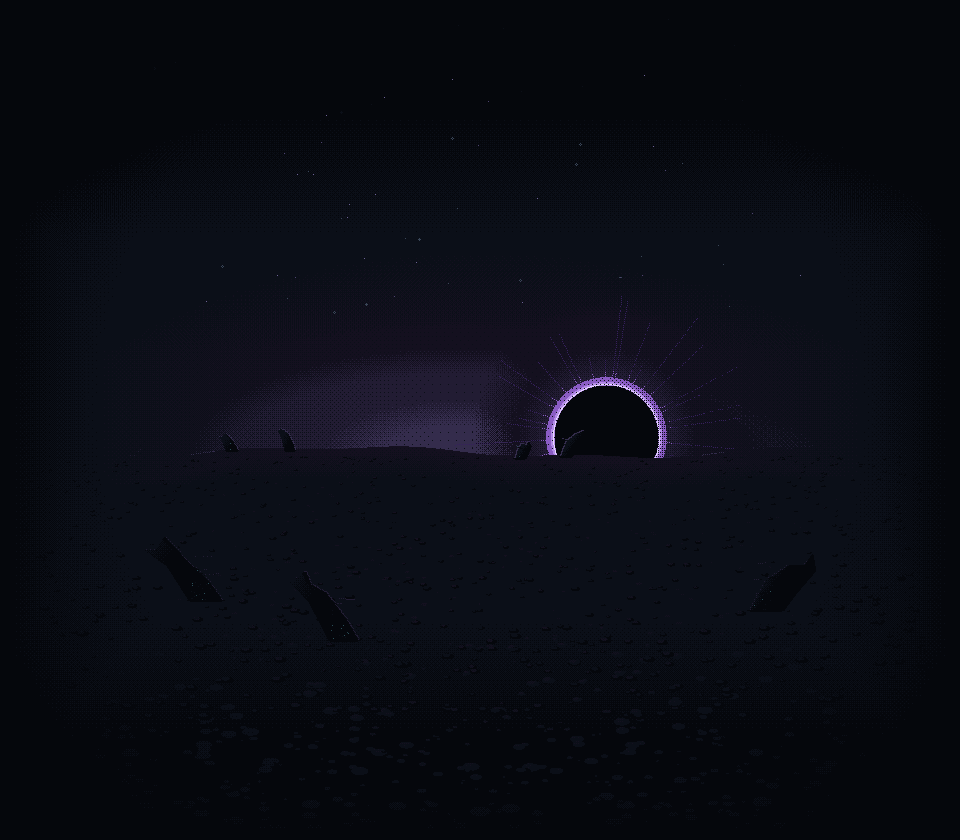
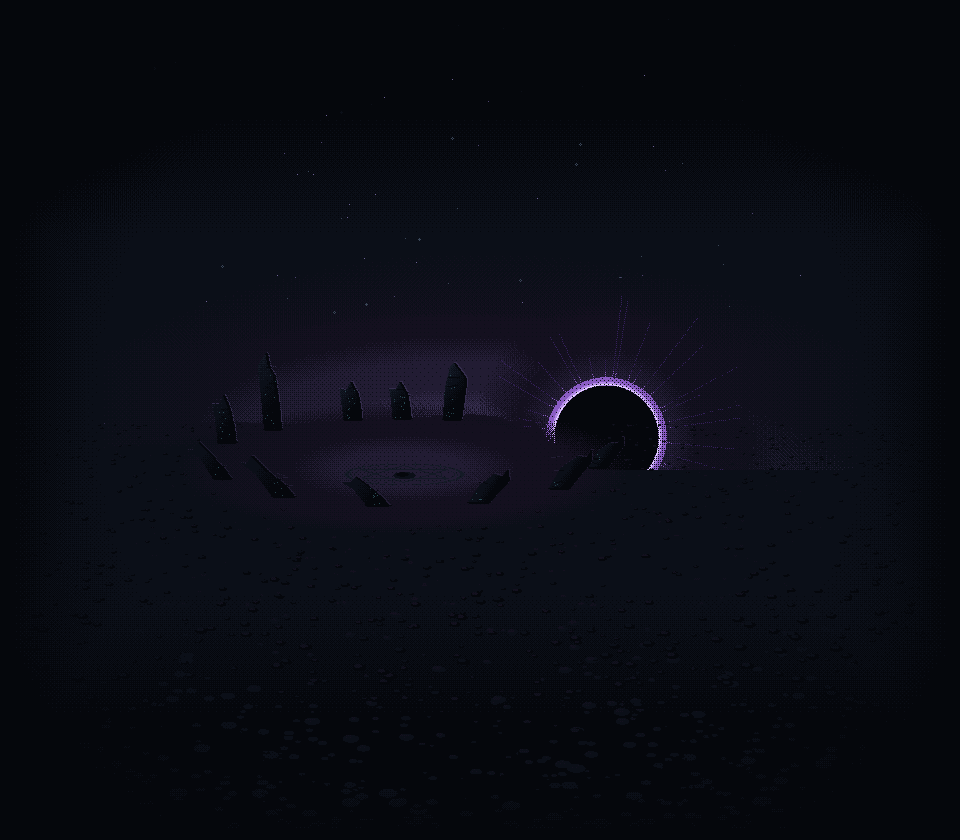
Prologue panel 2: lifted out of the stone circle, in their own dark colours
Eric's third pass on "He came here first": "when the dark wizard lifts
the wizards into the air, they should still be at the stone circles. you
can also show the colored dark silhouettes when he lifts them."

The setting: the four stand in the moot's ring of standing stones round
its cold ward, not on a bare far crest. The near stones are thrown down
outward; the far ones stand a head taller than the four and lean
outward, placed to the left of them and in the gaps between their heads
(THRONE_FAR_STONES), because a stone straight behind one ran on out of
his outline like a tall hat. The land beyond falls away behind him, so
his sun is not cut to a dome and its corona still rings his head. He
stays large in the right foreground, back to us, hand raised.

The colour: standing, they stay cast in shadow with only their own
light in colour; as each one's hoop closes his own colour comes up on
him, dark and shaded (THRONE_LIFTED): a dark stop of his robe's row,
the red row two stops higher for an even brightness, a band one stop up
on the side toward the hand, the far side let back to occlusion, the
violet rim kept - half his pixels for 0.12 s, then all. roster_figure
takes its shade= pass back for this.

Everything else as the second pass: four lifts one at a time, the
reach, the hoops, their light into his orb, 5.9 s, 46 unique frames.
Only throne-anim and throne-back change; 0 off-contract pixels; the
other seven panels byte-identical; panels 1 and 4 untouched.

diff --git a/tools/art/prologue.py b/tools/art/prologue.py
@@ -441,7 +441,7 @@ def _mask_at(pixels, k, facing):
 
 
 def roster_figure(c, who, cx, yb, h, body, strip="idle", frame=0, facing=1, lit=True, dim=False,
-                  warm=None, toward=None, contact=True):
+                  warm=None, toward=None, contact=True, shade=None):
     """One of the game's wizards as a silhouette, his feet on (cx, yb), h tall if he stood upright.
 
     who: a ROSTER entry. strip/frame: which of his frames - idle to stand, moving to walk, the death's
@@ -449,6 +449,7 @@ def roster_figure(c, who, cx, yb, h, body, strip="idle", frame=0, facing=1, lit=
     own ramp; dim: it is out, a dull stone where it was. warm: a ramp to dither a little of onto him
     (the fire in the moot). toward: (dx, dy[, colour]) to rim the edges facing a light. contact: False
     for a figure off the ground (the throne's lifted four), which has no contact line under him.
+    shade(s, left, top): a pass over his own pixels, on his scratch layer, before he is laid down.
     Returns (light, front): where his light is, and the front of him at his waist (where a chain
     would hold him), in frame pixels; either may be None."""
     prefix, carried, burns = who
@@ -473,6 +474,8 @@ def roster_figure(c, who, cx, yb, h, body, strip="idle", frame=0, facing=1, lit=
                     s.set(x, y, warm[4])
     left = int(round(cx - (CELL / 2.0) * k)) - 2
     top = int(round(yb - (CELL - 1) * k)) - 2
+    if shade:
+        shade(s, left, top)
     # The contact line: what of him touches the ground, on the ground row, in occlusion.
     feet = [x for x in range(s.w) for y in range(max(0, s.h - 4 - int(k)), s.h) if s.px[x, y][3]]
     over(c, s, left, top)
@@ -1532,15 +1535,19 @@ def p_moot():
 # the foreground. remove the purple wizard, since he is the wizard that you are, and you do not get captures by him".
 #
 # So FOUR: the starters the Archmage frees in the break, in the break's order left to right (FREED_FOUR) - never Dee,
-# whose grey robe and violet light read as the player. They stand on the far side of the moot's circle, on the crest
-# where its ground meets the sky, CAST IN SHADOW against the glow of his sun: occlusion shapes told apart by their
-# outlines - the Pyromancer's lantern and cape, the Geomancer's bulk and fork, the Frostweaver's crown and trident, the
-# Stormcaller's hair and raised fork - and each with nothing on him in colour but his own light. HE is in the
-# FOREGROUND, the nearest thing to the camera, between us and them, with his back to us. A silhouette has no front, so
-# the picture says it: the black sun is beyond him, behind his head, the only light on him comes from there, and his
-# raised hand reaches up into the scene, toward them. Then he takes them one at a time, from the far one to the
-# nearest: his reach leaves his hand, a hoop of his violet closes on one and lifts it into the sky over the circle,
-# where it hangs in a glow of his light while its own light streams back across the sky into his hand.
+# whose grey robe and violet light read as the player. And his third pass: "when the dark wizard lifts the wizards into
+# the air, they should still be at the stone circles. you can also show the colored dark silhouettes when he lifts
+# them." So they stand IN THE MOOT'S RING, round its cold ward, the ring's far stones standing tall behind them and
+# leaning outward, its near ones thrown down flat toward us - the place of panel 1, seen from behind him. Standing,
+# they are CAST IN SHADOW against the glow of his sun: occlusion shapes told apart by their outlines - the
+# Pyromancer's lantern and cape, the Geomancer's bulk and fork, the Frostweaver's crown and trident, the Stormcaller's
+# hair and raised fork - with nothing on them in colour but their own lights. HE is in the FOREGROUND, the nearest
+# thing to the camera, between us and them, with his back to us. A silhouette has no front, so the picture says it:
+# the black sun is beyond him, behind his head, the only light on him comes from there, and his raised hand reaches up
+# into the scene, toward them. Then he takes them one at a time, from the far one to the nearest: his reach leaves
+# his hand, a hoop of his violet closes on one - and in that light his own colour comes up on him, dark and shaded,
+# the moot's red, green, blue or gold (THRONE_LIFTED) - and lifts him out of the ring into the sky over it, where he
+# hangs in a glow of the dark wizard's light while his own light streams back into the hand.
 #
 # The box is the break's: every frame is the whole mid layer inside it, and the still mid layer is empty there. Every
 # edge and size a multiple of 8, so the dissolve's Bayer threshold matches pixel for pixel.
@@ -1556,22 +1563,31 @@ THRONE_COLUMNS = 8
 # the moot's panel gave it against him (eleven of his 64ths), so its corona rings his collar of points.
 THRONE_HIM = (604, 700, 300)
 THRONE_SUN = (606, 437, 52)
-# The crest of the far side of the circle, where the four stand against the sky: its height at x.
+# The moot's ring in the middle distance, beyond him and to our left: its centre and radii. Its stones stand round
+# this ellipse, the cold ward lies in its middle, and the four stand inside it.
+THRONE_RING = (404, 462, 196, 44)
+THRONE_WARD = (404, 474, 60, 11)
+# Where the ring's far stones stand, by x on its far arc: two to the left of the four, three in the gaps between
+# them, none behind his head, where a stone would break the eclipse.
+THRONE_FAR_STONES = [228, 274, 353, 403, 453]
 
-
-def _throne_crest(x):
-    return 452 + math.sin(x * 0.012 + 0.6) * 5 + math.sin(x * 0.037 + 2.0) * 2
-
-
-# The four, in the order he takes them, far to near: (who, standing on the crest at x, held in the air (x, yb),
-# height, facing, the moment the hoop closes). Facing him, each a step apart so no two outlines touch and merge.
-# The first hoop closes at 1.25 s, so the circle stands whole and still for a beat after the dissolve in (his reach,
-# THRONE_REACH, leaves his hand 0.15 s before it); then one every 0.65 s. The last comes to rest at 4.8 s, and
-# the dissolve to the tide begins at 5.2.
-THRONE_FOUR = [(PYRO, 328, (332, 372), 48, 1, 1.25),
-               (GEO, 378, (376, 336), 48, 1, 1.9),
-               (FROST, 428, (428, 326), 48, 1, 2.55),
-               (STORM, 478, (478, 350), 48, 1, 3.2)]
+# The four, in the order he takes them, far to near: (who, standing in the ring (x, yb), held in the air (x, yb),
+# height, facing, the moment the hoop closes). Facing him, on the ward's far side, each a step apart so no two
+# outlines touch and merge. The first hoop closes at 1.25 s, so the circle stands whole and still for a beat after
+# the dissolve in (his reach, THRONE_REACH, leaves his hand 0.15 s before it); then one every 0.65 s. The last comes
+# to rest at 4.8 s, and the dissolve to the tide begins at 5.2.
+THRONE_FOUR = [(PYRO, (328, 456), (332, 372), 48, 1, 1.25),
+               (GEO, (378, 452), (376, 336), 48, 1, 1.9),
+               (FROST, (428, 452), (428, 326), 48, 1, 2.55),
+               (STORM, (478, 456), (478, 350), 48, 1, 3.2)]
+# Each one's colour once his hoop has him: (the row, the stop he is filled with, the stop his lit side takes). Dark and
+# shaded, as Eric asked ("the colored dark silhouettes"), not the moot's flat fill: a stop of his own row whose
+# brightness is near the other three's (the red row is the darkest, so the Pyromancer sits two stops above the
+# rest), his lit side one stop up toward the hand, his far side let back to occlusion.
+THRONE_LIFTED = {"pyromancer": (R, 2, 1), "geomancer": (M["verdant"], 4, 3), "frostweaver": (M["azure"], 4, 3),
+                 "stormcaller": (G, 4, 3)}
+# Seconds his colour takes to come up once the hoop has closed: half of him at once, all of him after this.
+THRONE_COLOUR_IN = 0.12
 # The hoop closing: seconds from its flash on the ground to his feet leaving it.
 THRONE_GRIP = 0.3
 # A lift eases in and out (a smoothstep, steepest at 1.5 times its average) and never climbs faster than this,
@@ -1583,9 +1599,44 @@ THRONE_STREAM = 1.5
 
 
 def _throne_ground(entry):
-    """Where a wizard stands before he is taken: (x, his feet on the crest)."""
-    x = entry[1]
-    return x, int(round(_throne_crest(x)))
+    """Where a wizard stands in the ring before he is taken: (x, his feet)."""
+    return entry[1]
+
+
+def _lifted_shade(row, stop, lit, toward, held, colour):
+    """A wizard's own pixels in the throne, before he is laid down (roster_figure's shade). Standing, cast in shadow:
+    occlusion with a rim of violet on the edge that faces his sun. Held, his colour comes up (`colour` 0 to 1, half
+    his pixels and then all): his row's `stop`, a band of its `lit` stop three pixels deep behind the violet rim on
+    the side toward the hand, and two pixels of occlusion along the far side, so he reads as a turned form and not
+    a flat fill."""
+    def shade(s, left, top):
+        px = s.px
+        if held and colour > 0.0:
+            dx = 1 if toward[0] > 0.33 else (-1 if toward[0] < -0.33 else 0)
+            dy = 1 if toward[1] > 0.33 else (-1 if toward[1] < -0.33 else 0)
+            fill, up, occ = rgb(row[stop]), rgb(row[lit]), rgb(OCC)
+
+            def depth(x, y, sx, sy, most):
+                for d in range(1, most + 1):
+                    qx, qy = x + sx * d, y + sy * d
+                    if not (0 <= qx < s.w and 0 <= qy < s.h) or not px[qx, qy][3]:
+                        return d
+                return most + 1
+            paint = []
+            for y in range(s.h):
+                for x in range(s.w):
+                    if not px[x, y][3] or not dith(x + left, y + top, colour):
+                        continue
+                    if depth(x, y, dx, dy, 4) <= 4:
+                        paint.append((x, y, up))
+                    elif depth(x, y, -dx, -dy, 2) <= 2:
+                        paint.append((x, y, occ))
+                    else:
+                        paint.append((x, y, fill))
+            for (x, y, col) in paint:
+                px[x, y] = col
+        edge_light(s, V[1], toward)
+    return shade
 
 
 def _throne_lift(entry):
@@ -1691,7 +1742,7 @@ def _reach(c, src, dst, t, at):
 
 def _throne_frame(t, him, statics):
     """The mid layer at panel time t, in three passes: (ground, four, front). The ground is the shadows out of
-    his hem and the marks the hoops leave on the crest; the four are the wizards - on the crest, in his hoop,
+    his hem and the marks the hoops leave in the ring; the four are the wizards - in the ring, in his hoop,
     rising, or hung in the sky with their light streaming to his hand - and his grip on them; the front is him,
     the nearest thing to the camera, the orb in his hand and his reach out of it. p_throne darkens the ground
     and the front by the panel's vignette and the four by none, and lays them in that order."""
@@ -1711,7 +1762,7 @@ def _throne_frame(t, him, statics):
     for (i, e, x, y, lu, v, level) in poses:
         who, h, f, at = e[0], e[3], e[4], e[5]
         lights[i] = light_at(who, x, y, h, "idle" if t < at else "death", 0, f)
-        # The crest where each was taken: the mark the hoop left closing.
+        # The ground where each was taken: the mark the hoop left closing.
         if t >= at:
             gx, gy = _throne_ground(e)
             _hoop(c, gx, gy + 1, 0.42 * h, 0.1 * h, True, V[3], V[3])
@@ -1743,13 +1794,16 @@ def _throne_frame(t, him, statics):
                     if (d // 2 + k) % 3 == 0:
                         continue
                     four.set(sx_, y + d, DK[3] if d < ln * 0.5 else V[3])
-        # Cast in shadow: occlusion, his outline caught in violet on the edge that faces the light - his sun's
-        # beyond the circle while he stands, his grip's toward the hand once it has him. A stop above the sky band,
-        # or the rim is lost against it.
+        # Standing, cast in shadow, his outline caught in violet on the edge that faces his sun beyond the ring; once
+        # the hoop has him, his own colour comes up in its light, dark and shaded, lit toward the hand (a stop above
+        # the sky band, the rim, or it is lost against it).
         to = ((ox - x), (oy - cyw)) if held else ((THRONE_SUN[0] - x), (THRONE_SUN[1] - 40 - cyw))
         n = math.hypot(*to) or 1.0
+        row, stop, lit = THRONE_LIFTED[who[0]]
+        colour = 0.0 if not held else (0.5 if t - at < THRONE_COLOUR_IN else 1.0)
         roster_figure(four, who, x, y, h, [OCC, OCC], strip="death" if held else "idle", frame=0, facing=f,
-                      lit=False, toward=(to[0] / n, to[1] / n, V[1]), contact=not held or lu <= 0.0)
+                      lit=False, contact=not held or lu <= 0.0,
+                      shade=_lifted_shade(row, stop, lit, (to[0] / n, to[1] / n), held, colour))
         if held:
             for dy in (0, 1):
                 _hoop(four, x, hy_ + dy, rx, ry, True, DK[0] if flash else DK[1], DK[1] if flash else DK[2])
@@ -1768,32 +1822,60 @@ def _throne_frame(t, him, statics):
 def p_throne():
     """2. "He came here first." The moot's circle, its fire out, and over it his first full look: a silhouette in the
     foreground with his back to us, the only figure in the game that sheds dark light, his black sun behind his head.
-    Beyond him, on the far crest of the circle, the four disciplines cast in shadow against the sky - until he lifts
-    them into it one after another (animated: THRONE_BOX), each in a hoop of his violet, and draws their light into
-    his hand."""
+    Beyond him, in the moot's ring of stones, the four disciplines cast in shadow against the sky - until he lifts
+    them out of it one after another (animated: THRONE_BOX), each in a hoop of his violet that brings his own colour
+    up on him, dark and shaded, and draws their light into his hand."""
     back, mid, fore = frame(True), frame(), frame()
     sky(back, 0, 470, [OCC, OCC, S[4], V[4], V[3]])
     stars(back, (0, 0, FW, 320), 160, 4, colors=[S[0], V[1], V[0]])
     sun_x, sun_y, sun_r = THRONE_SUN
     # The sky over the circle lit by his sun, a band of violet pigment the four stand against: without it they were
     # occlusion on the night.
-    back.radial(sun_x - 150, 452, 330, 130, [V[2], V[2], V[3], V[3], V[4], None])
+    back.radial(sun_x - 150, 440, 330, 130, [V[2], V[2], V[3], V[3], V[4], None])
     black_sun(back, sun_x, sun_y, sun_r, rays=40, seed=5)
-    # The far side of the circle: a low rise of heath, its crest the line the four stand on, a few of its stones
-    # thrown down outward along it.
-    hills(back, _throne_crest, [V[4], S[4], S[4]], 60, lit=V[2])
-    back.vramp(512, FH - 1, [S[4], S[4], OCC, OCC])
-    heath(back, 456, 840, 1800, 6, [(S[4], V[4]), (OCC, V[4]), (OCC, S[4])],
-          keep_out=lambda x, y: y < _throne_crest(x) + 3)
-    for i, (x, w, h, lean, br) in enumerate([(232, 12, 30, -0.45, True), (290, 10, 22, -0.3, False),
-                                             (520, 11, 24, 0.35, True), (566, 12, 28, 0.5, False)]):
-        standing_stone(back, x, _throne_crest(x) + 2, w, h, 700 + i, lean=lean, broken=br,
-                       ramp=[S[3], S[4], S[4], OCC, OCC], toward=(-0.6 if x > 430 else 0.6, -0.8, V[2]))
-    # The near side of the ring, round him: its stones thrown flat, outward toward us.
-    for i, (x, y, w, h, lean, br) in enumerate([(206, 600, 34, 90, -0.75, True), (344, 640, 30, 70, -0.6, False),
-                                                (766, 610, 34, 84, 0.7, True)]):
-        standing_stone(back, x, y, w, h, 720 + i, lean=lean, broken=br, ramp=[S[3], S[4], OCC, OCC, OCC],
-                       toward=(0.4 if x < 480 else -0.4, -0.9, V[3]))
+    # The heath beyond the ring, and the ring's ground. The land falls away behind him, so his sun is not cut to a
+    # dome by it and its corona still rings his head.
+    far_land = ridge_fn(420, 7, 11, 0.9)
+    hills(back, lambda x: far_land(x) + max(0.0, x - 500) * 0.55, [V[4], S[4], S[4]], 50, lit=V[2])
+    back.vramp(470, FH - 1, [S[4], S[4], OCC, OCC])
+    heath(back, 424, 840, 1800, 6, [(S[4], V[4]), (OCC, V[4]), (OCC, S[4])])
+    rcx, rcy, rrx, rry = THRONE_RING
+    # The ring's floor, lit by his sun beyond it: violet pigment, cold, where the moot's was gold.
+    back.radial(rcx, rcy + 6, rrx + 30, rry + 22, [V[3], V[3], V[4], V[4], None])
+    # The ring of standing stones (the moot's, panel 1): the far ones still standing behind the four, leaning outward
+    # from him; the near ones thrown down flat, outward toward us. None behind his head, where they would break the
+    # eclipse; drawn far to near round the cold ward.
+    # The far ones are placed, not spaced round: a stone standing straight behind one of the four ran on out of his
+    # outline like a tall hat, so the tall ones stand to the left of them and the rest rise in the gaps between
+    # their heads.
+    stones = []
+    rng = random.Random(707)
+    for i in range(12):
+        a = i * 6.28318 / 12.0 + 0.13
+        if math.sin(a) >= 0:
+            stones.append((rcy + math.sin(a) * rry, rcx + math.cos(a) * rrx, False, i, rng.random(), rng.random()))
+    for i, x in enumerate(THRONE_FAR_STONES):
+        y = rcy - rry * math.sqrt(max(0.0, 1.0 - ((x - rcx) / float(rrx)) ** 2))
+        stones.append((y, x, True, 20 + i, rng.random(), rng.random()))
+    wx, wy, wrx, wry = THRONE_WARD
+    stones.append((wy, None, None, None, 0, 0))
+    for (y, x, far, i, r1, r2) in sorted(stones, key=lambda s: s[0]):
+        if x is None:
+            # The moot's ward, where the fire burned: gone cold, its lines in stone, the fire's ash in the middle.
+            ward(back, wx, wy, wrx, wry, A=[S[2], S[3], S[3], S[3]], pool=False)
+            back.disc(wx, wy + 1, 11, 3.5, S[4])
+            back.disc(wx - 2, wy, 6, 2.2, OCC)
+            continue
+        out = 1 if x > rcx else -1
+        if far:
+            # A head taller than the four, as the moot's stones stand over its wizards; the ones in the gaps between
+            # them a little less, so they rise between the heads without crowding them.
+            tall = (64 + r2 * 16) if x < 310 else (54 + r2 * 8)
+            standing_stone(back, x, y, 15 + r1 * 5, tall, 700 + i, lean=out * (0.06 + r1 * 0.1),
+                           broken=r2 < 0.3, ramp=[S[2], S[3], S[4], OCC, OCC], toward=(1, -0.5, V[2]))
+        else:
+            standing_stone(back, x, y, 18 + r1 * 6, 46 + r2 * 12, 700 + i, lean=out * (0.7 + r1 * 0.2),
+                           broken=True, ramp=[S[3], S[4], S[4], OCC, OCC], toward=(1, -0.6, V[3]))
 
     # Him, once: the frames lay him and his orb over the four.
     cx, yb, hh = THRONE_HIM

diff --git a/scripts/Prologue.cs b/scripts/Prologue.cs
@@ -180,14 +180,16 @@ public partial class Prologue : Control
 		// the wizards dark specks at his feet: "it's hard to see what he's doing in the background, it should show him
 		// lifting each of the wizards into the air to capture them"; then, of the first answer: "the silhouette of 4
 		// wizards, cast in shadow, in the background, with the dark wizard in the foreground. remove the purple wizard,
-		// since he is the wizard that you are"). Its box animates (tools/art/prologue.py, THRONE_BOX, 12 frames a
-		// second): him in the foreground with his back to us, his black sun behind his head, and beyond him the four
-		// disciplines on the far crest of the circle, cast in shadow against the sky; from 1.25 s, one every 0.65 s,
-		// his reach leaves his hand, a hoop of his violet closes on one and lifts it into the sky, where it hangs while
-		// its light streams back into his hand. All four at rest by 4.8 s. HELD 5.9 s, not 5.2: four lifts the eye can
-		// follow one after another (each under 120 art px/s), a still beat before the first and 0.4 s after the last
-		// before the dissolve. No impact (rule 1): the tide's burst, a few seconds on, is the one that is his. Back and
-		// mid drift as ONE, so a wizard standing on the crest never slides on it; the slow tilt up follows the rise.
+		// since he is the wizard that you are"; and "they should still be at the stone circles. you can also show the
+		// colored dark silhouettes when he lifts them"). Its box animates (tools/art/prologue.py, THRONE_BOX, 12 frames
+		// a second): him in the foreground with his back to us, his black sun behind his head, and beyond him the four
+		// disciplines in the moot's ring of stones, cast in shadow against the sky; from 1.25 s, one every 0.65 s, his
+		// reach leaves his hand, a hoop of his violet closes on one, his own colour comes up on him dark and shaded,
+		// and he is lifted out of the ring into the sky, where he hangs while his light streams back into the hand. All
+		// four at rest by 4.8 s. HELD 5.9 s, not 5.2: four lifts the eye can follow one after another (each under 120
+		// art px/s), a still beat before the first and 0.4 s after the last before the dissolve. No impact (rule 1):
+		// the tide's burst, a few seconds on, is the one that is his. Back and mid drift as ONE, so a wizard standing
+		// in the ring never slides on it; the slow tilt up follows the rise.
 		new("throne", 5.9f, "He came here first.", new Vector2(0f, 4f), new Vector2(0f, 4f), new Vector2(0f, 10f)),
 		// His shadows over the land, coming down on a village that is still lit. THE RUSH (Eric, 2026-11-05: the
 		// army must rush over the horizon; the old beat slid the whole crowd across a still picture as one layer):

diff --git a/.ai/prologue.md b/.ai/prologue.md
@@ -13,7 +13,7 @@ choice below comes from it.
 | # | Panel (`name`) | Line | What it is |
 |---|---|---|---|
 | 1 | The moot (`moot`) | *The stones where we used to meet.* | The Broken Circle before (`.ai/campaign.md` chapter 3): a ring of standing stones on the heath at night, a warded fire in the middle, and round it four of the game's own wizards (below) - the disciplines, standing square round the fire - each staff burning his own element, each in the deep end of his own colour. The only frame with more than one warm light in it - every light the world had is still in it. |
-| 2 | He comes (`throne`) | *He came here first.* | **Animated** (2026-11-08, Eric: *"it's hard to see what he's doing in the background, it should show him lifting each of the wizards into the air to capture them"*, then *"the silhouette of 4 wizards, cast in shadow, in the background, with the dark wizard in the foreground. remove the purple wizard, since he is the wizard that you are"*; below). **Only his silhouette**, in the foreground and with his back to us: a tall cowled shape inside a collar of points, his black sun behind his head as an eclipse, one arm raised and reaching up into the scene. No face, folds, trim or keys; the shadow running out of his hem has eyes in it. Beyond him, on the far crest of the moot's circle (its stones thrown down outward), the four disciplines - the four the break frees, in its order - stand cast in shadow against his sun's glow, each with nothing on him in colour but his own light. Then he takes them one at a time, far to near: his reach leaves his hand, a hoop of his violet closes on one and lifts it into the sky, where it hangs in his grip while its light streams back into his hand. They end in an arc that curves down into the hand. Never Dee, whose grey robe and violet light read as the player, who is never taken. |
+| 2 | He comes (`throne`) | *He came here first.* | **Animated** (2026-11-08, Eric: *"it's hard to see what he's doing in the background, it should show him lifting each of the wizards into the air to capture them"*, then *"the silhouette of 4 wizards, cast in shadow, in the background, with the dark wizard in the foreground. remove the purple wizard, since he is the wizard that you are"*, then *"when the dark wizard lifts the wizards into the air, they should still be at the stone circles. you can also show the colored dark silhouettes when he lifts them"*; below). **Only his silhouette**, in the foreground and with his back to us: a tall cowled shape inside a collar of points, his black sun behind his head as an eclipse, one arm raised and reaching up into the scene. No face, folds, trim or keys; the shadow running out of his hem has eyes in it. Beyond him, the moot's ring of standing stones round its cold ward - the far stones tall behind and between them, the near ones thrown down outward - and in it the four disciplines (the four the break frees, in its order), cast in shadow against his sun's glow, each with nothing on him in colour but his own light. Then he takes them one at a time, far to near: his reach leaves his hand, a hoop of his violet closes on one, his own colour comes up on him in its light - the moot's red, green, blue or gold, dark and shaded - and he is lifted out of the ring into the sky, where he hangs in the dark wizard's grip while his light streams back into the hand. They end in an arc over the empty ring that curves down into the hand. Never Dee, whose grey robe and violet light read as the player, who is never taken. |
 | 3 | The tide (`tide`) | - | **Animated** (2026-11-07, Eric: the army must *rush* over the horizon, not sit as a layer sliding over a picture). His shadows over the land: a village at the foot of a hill, still lit and quiet for a breath - then heads come up behind the crest, clipped by the ridge line, the wave bursts over it (the panel's impact beat: cold speed lines, a shake, his violet), and the flood pours down the slope toward the village, every body on its own lane with its feet on the ground, growing as it comes, the front rank striding up big by the village as the panel ends. The last frame is the old still: the flood arrived. Every one of them wears his mark in its eyes. |
 | 4 | Taken (`taken`) | *He took every wizard who might rival him.* | The wizards - six of them, the secret three among them, never Dee - led along a ridge to his tower between his guards, bound wrist to wrist by a chain of his light, their own light drawn out of them toward the eclipse over the tower. |
 | 5 | The one he missed (`missed`) | *You are the one he missed.* | **Animated** (below): the hiding. The broken ring's near stones in a row, and in the row, between two of them, the player - the title's figure, facing us, still as a stone, his light put out to an ember. Beyond the row his creatures search: a hound trots along it nose down, stops at his shoulder and works the air beside him - his ember goes out - and goes on; a caster in the gap watches; two small ones turn their heads; pair by pair the eyes in the dark turn away and back. They never find him. |
@@ -63,10 +63,13 @@ Nothing else is said: no title card, no narration, nothing an image is already s
   (`roster_figure` / `silhouette` in the generator: the 48 cell's pixels, contact line and sparks
   dropped, smoothed onto the panel's grid, filled flat, lit only at the anchor where his own element
   sits in the sprite). Which frames: idle in the moot and in panel 2 while he stands, the first frame of
-  his death strip once the hoop has him (the flinch), his walk in panel 4. In panel 2 they are cast in
-  shadow - occlusion, a rim of violet on the edge that faces the light, and nothing in colour but each one's
+  his death strip once the hoop has him (the flinch), his walk in panel 4. In panel 2, standing, they are cast
+  in shadow - occlusion, a rim of violet on the edge that faces the light, and nothing in colour but each one's
   own light - and told apart by outline alone: the Pyromancer's lantern and cape, the Geomancer's bulk and
-  fork, the Frostweaver's crown and trident, the Stormcaller's hair and raised fork. **The moot and panel 2
+  fork, the Frostweaver's crown and trident, the Stormcaller's hair and raised fork. Once the hoop has one,
+  his own colour comes up on him, dark and shaded (`THRONE_LIFTED`): a dark stop of his robe's row (the red
+  row two stops higher than the others, for an even brightness), a band one stop up on the side toward the
+  hand, the far side let back to occlusion, the violet rim kept. **The moot and panel 2
   show only the four disciplines**, whose silhouettes a fresh save already shows. Tituba, Vainamoinen and
   Laelaps are secret until their chapters open (`.ai/side-events.md`, "Secret wizards"), and the prologue
   plays before any chapter has; only the procession shows them, because Eric chose it (2026-11-01, "Show
@@ -142,31 +145,38 @@ which animates its whole flood, about 23 (446 KB on disk - flat colours compress
 are rendered once per (kind, size, seed, light) and pasted along their lanes (`creature_fig`,
 `_TIDE_CACHE`), or the 45 frames would re-draw 1,600 creatures each.
 
-**The throne's lifting** (`THRONE_BOX`, 264x232 at 296,240: the four from the crest into the sky, his raised
-arm and orb, the streams and his reach; its still mid layer is empty inside it, the break's pattern). Two
+**The throne's lifting** (`THRONE_BOX`, 264x232 at 296,240: the four from the ring into the sky, his raised
+arm and orb, the streams and his reach; its still mid layer is empty inside it, the break's pattern). Three
 passes made it. The first (de26e32c) lifted five round his head in their robes' colours, him small at the
 back of the circle; Eric: *"the silhouette of 4 wizards, cast in shadow, in the background, with the dark
-wizard in the foreground. remove the purple wizard"*. So now: **him in the foreground** (`THRONE_HIM`, 300 art
+wizard in the foreground. remove the purple wizard"*. The second (4dbe1c33) stood the four on a bare far
+crest; Eric: *"they should still be at the stone circles. you can also show the colored dark silhouettes
+when he lifts them"*. So now: **him in the foreground** (`THRONE_HIM`, 300 art
 pixels tall, cut by the frame's foot, on the right), his back to us - a silhouette has no front, so the
 picture says it: his black sun is beyond him, behind his head (`THRONE_SUN`, at the moot's proportion, so its
 corona rings his collar of points), the only light on him comes from there, and his raised hand reaches up
 and to our left into the scene. `dark_wizard` fills the closed gaps inside his shape before its rims are drawn:
 drawn this large, the rim round two gaps between his mantle's points read as a pair of eyes looking out of his
-back. **The four in the background** (`THRONE_FOUR`, 48 tall, a step apart so no two outlines touch and merge)
-on the far crest of the circle, cast in shadow against a band of his sun's violet on the sky. It runs at
+back. The land falls away behind him, so it does not cut his sun to a dome. **The moot's ring** (`THRONE_RING`)
+in the middle distance, its cold ward in the middle (`THRONE_WARD`): the near stones thrown down outward, the
+far ones standing a head taller than the four and leaning outward, placed (`THRONE_FAR_STONES`) to the left of
+them and in the gaps between their heads, because a stone straight behind one ran on out of his outline like a
+tall hat. **The four in the ring** (`THRONE_FOUR`, 48 tall, a step apart so no two outlines touch and merge),
+cast in shadow against a band of his sun's violet on the sky; each one's colour comes up, dark and shaded
+(`THRONE_LIFTED`), as his hoop closes - half his pixels for the first 0.12 s, then all of him. It runs at
 **12 frames a second**, not 8: at 8 a rise went up in jumps the eye could not follow as one movement. Each
 lift is a smoothstep held under 120 art px/s (`THRONE_LIFT`, ten a frame), and the panel is held **5.9 s**,
 not 5.2, so four of them fit one after another with a still beat before the first and a rest after the
 last. The clock, in panel seconds: the circle stands whole and still until his reach leaves his hand at
 1.1 s; the hoops close at 1.25 (the Pyromancer, farthest), 1.9 (the Geomancer), 2.55 (the Frostweaver) and
-3.2 (the Stormcaller, nearest his hand), each foot leaving the crest 0.3 s after its hoop; the last comes to
+3.2 (the Stormcaller, nearest his hand), each foot leaving the ring 0.3 s after its hoop; the last comes to
 rest at 4.8 s, and the dissolve to the tide begins at 5.2. From each hoop on, that wizard's light streams out
 of his staff into the orb in the raised hand, which grows with every light it takes, and the staff burns down
 to half (still its own colour, so each is still known by his light). The frames are the whole mid layer in
 three passes: the ground (his hem's shadows, the hoops' marks) and the front (him, the orb, his reach) under
 the panel's full vignette, so they meet the still layer at the box's edge without a seam, and the four and his
 grip on them under none, because the vignette's dither at any strength set a lattice of stone dots over a
-flat shape. 46 unique frames of 71 ticks: about 11 MB of texture while the panel is up (190 KB on disk). No
+flat shape. 46 unique frames of 71 ticks: about 11 MB of texture while the panel is up (210 KB on disk). No
 impact beat: the tide's burst, a few seconds on, is the one that is his.
 
 ## The scene
@@ -283,7 +293,7 @@ sit mid-hold at frames 138, 411 (the throne, animated), 714 (the tide, animated)
 break, animated: see `.ai/cutscenes.md`), 1818 and 2064; frame 255 is mid-dissolve from the first to the
 second, and the whole thing ends at about frame 2322. The throne starts dissolving in at frame 234, so its
 moment `t` seconds in is frame `234 + 60t`: `--frames=300 --burst=8,34` (above) takes it at 1.1, 1.7, 2.2,
-2.8, 3.4, 3.9, 4.5 and 5.1 s (the four on the crest; the first in his hoop; the first up and the second
+2.8, 3.4, 3.9, 4.5 and 5.1 s (the four in the ring; the first in his hoop; the first up and the second
 taken; the third taken; the third rising and the last taken; the last rising; all four held; at rest before
 the dissolve), and frame 567 is mid-dissolve from it into the tide. The tide starts dissolving in at frame
 546, so its moment `t` seconds in is frame `546 + 60t`: `--frames=642 --burst=5,42` takes the rush at 1.6,
